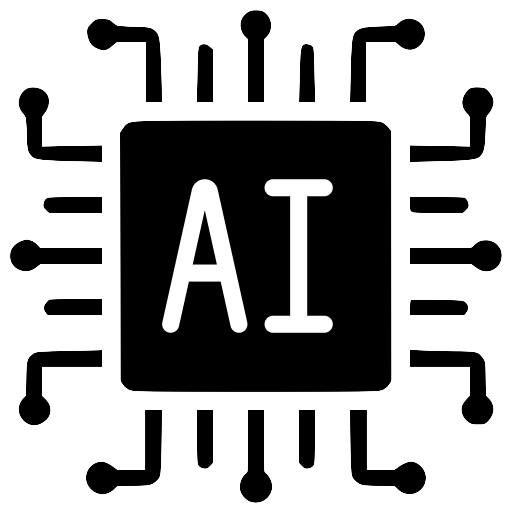
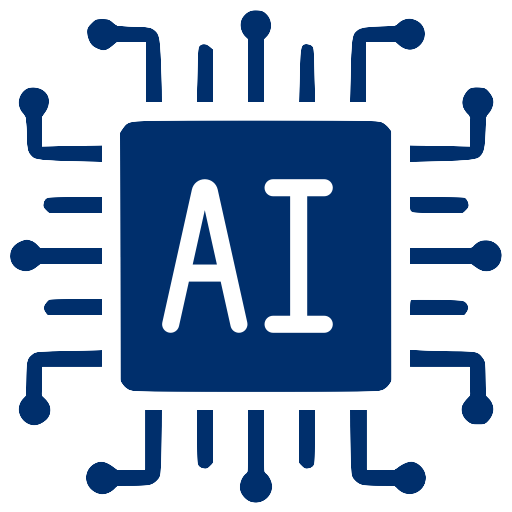
circular links

diff --git a/dist/assets/index-fe1d2f7c.css b/dist/assets/index-fe1d2f7c.css
@@ -1,0 +1,1 @@
+:root{--primary: #002F6C;--secondary: #006789;--tertiary: #A7C6ED;--bg: #F8F9F6;--text: #1f2937;--card-bg: #f9fafb}body{display:flex;flex-direction:column;align-items:center;justify-content:center;text-align:center;font-family:Inter,sans-serif;color:var(--text);line-height:1.6;margin:0}.site-header{width:100%;display:flex;flex-direction:column;background-color:var(--primary);color:var(--bg);position:relative;box-sizing:border-box;padding-top:1rem}.title,.subtitle{line-height:1}.nav-bar{max-width:1200px;display:flex;padding-bottom:.5rem;padding-left:3rem}.nav-links{display:flex;align-items:center;gap:.3rem}.nav-links a{color:var(--bg);text-decoration:none;font-size:.95rem;font-weight:500;transition:color .2s ease}.nav-links a:hover,.nav-links a.active{color:var(--text-main)}.nav-links a.nav-cta{padding:.5rem 1rem;border-radius:3px}.nav-links a.nav-cta:hover{background-color:#ffffff1a;border-color:#fff3}.circular-links-section{display:flex;align-items:center;justify-content:center;min-height:500px;overflow:hidden;margin:2rem 0;padding-top:7rem}.circle-track{position:relative;width:600px;height:600px;border-radius:50%;border:2px dashed var(--tertiary)}.center-text{position:absolute;top:0;right:0;bottom:0;left:0;display:flex;align-items:center;justify-content:center;color:#94a3b8;font-weight:500;letter-spacing:.1em;font-size:14px}.circle-img-link{position:absolute;width:30%;height:30%;transform:translate(-50%,-50%);border-radius:50%;transition:all .3s ease-in-out}#code-icon{width:25%;height:25%}#lab-icon{width:27%;height:27%}.circle-img-link:hover{transform:translate(-50%,-50%) scale(1.25);z-index:10}.circle-img-link img{width:100%;height:100%;object-fit:cover}.section-title{text-align:left;padding:2rem 1rem 1rem 3rem;margin:0rem}.intro-text{text-align:justify;padding-left:4rem;padding-right:4rem}.grid{display:flex;align-items:center;justify-content:center;grid-template-columns:repeat(auto-fit,minmax(300px,1fr));gap:2rem;padding-left:2rem;padding-right:2rem}.card{width:20%;background:var(--card-bg);border:1px solid #e5e7eb;border-radius:12px;padding:1.5rem;transition:transform .2s}.card:hover{transform:translateY(-5px);border-color:var(--primary)}.tag{background:#dbeafe;color:var(--primary);font-size:.75rem;padding:.2rem .6rem;border-radius:999px;margin-right:.5rem}

diff --git a/dist/index.html b/dist/index.html
@@ -4,8 +4,8 @@
     <meta charset="UTF-8">
     <title>Name | AI & Biomedical Portfolio</title>
     
-  <script type="module" crossorigin src="/assets/index-163ac5b3.js"></script>
-  <link rel="stylesheet" href="/assets/index-f4df1d65.css">
+  <script type="module" crossorigin src="/assets/index-09238fd7.js"></script>
+  <link rel="stylesheet" href="/assets/index-fe1d2f7c.css">
 </head>
 <body>
     <header class="site-header">

diff --git a/index.html b/index.html
@@ -40,7 +40,7 @@
                 </a>
             </div>
         </section>
-        <h2 class="section-title">Research Projects</h2>
+        <h2 class="section-title">Project Details</h2>
         <section id="project-grid" class="grid">
             <!-- JavaScript will inject cards here -->
         </section>
